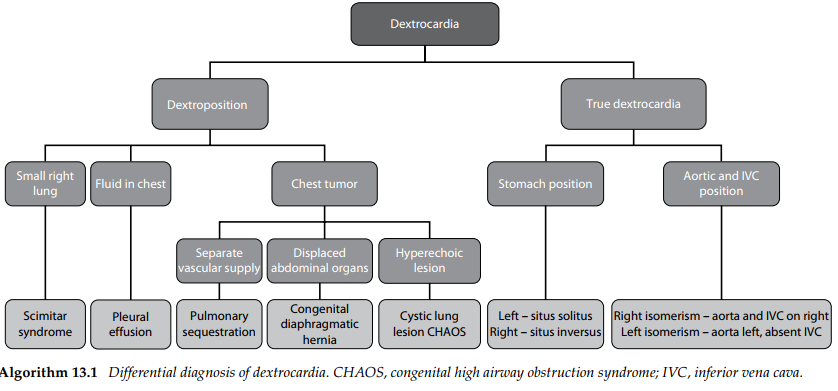
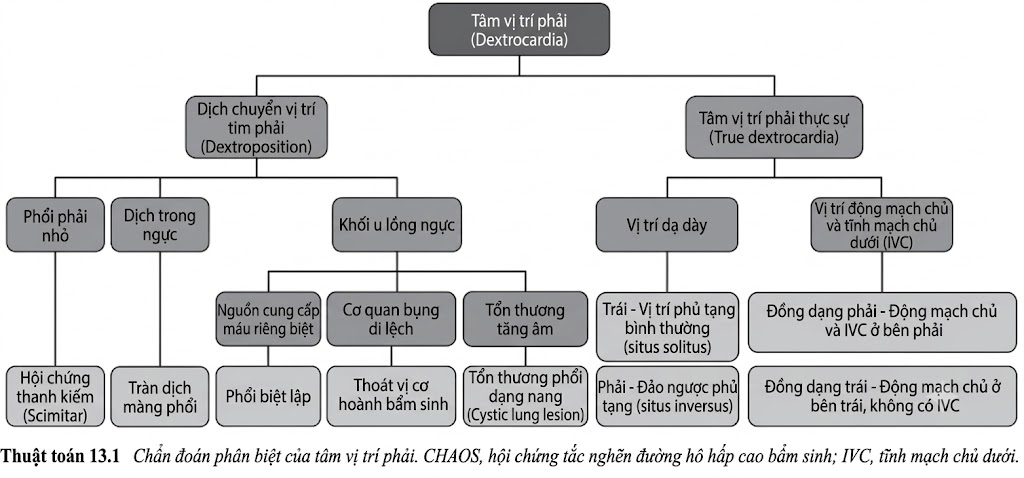
Continue

diff --git a/README.md b/README.md
@@ -2,7 +2,7 @@
 
 [![GitHub Pages](https://github.com/MedPocket/problem-based-obstetric-ultrasound/actions/workflows/pages.yml/badge.svg)](https://medpocket.github.io/problem-based-obstetric-ultrasound)
 
-Tài liệu cô đọng và mang tính ứng dụng cao về **Siêu âm Sản Phụ khoa dựa trên vấn đề** (bản dịch tiếng Việt từ tài liệu gốc bởi bác sĩ Nguyễn Trọng Thanh và bác sĩ Long Nhật Nguyễn).
+Tài liệu cô đọng và mang tính ứng dụng cao về **Siêu âm Sản Phụ khoa dựa trên vấn đề** (bản dịch tiếng Việt bởi Nguyễn Trọng Thanh và Long Nhật Nguyễn).
 
 Trang web này được xây dựng sử dụng [**Blume**](https://useblume.dev) (phát triển trên nền Astro và Vite).
 
